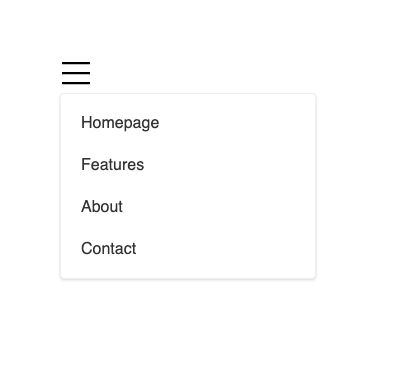
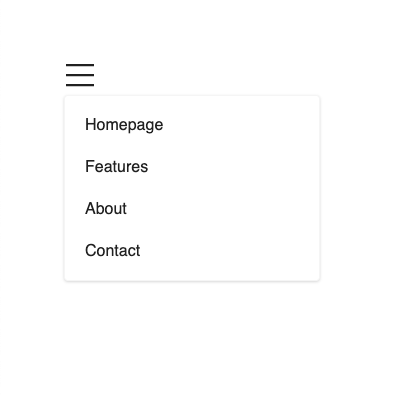
css variable definition is made

diff --git a/src/style.css b/src/style.css
@@ -1,3 +1,22 @@
+:root {
+  --white: #ffffff;
+  --gray-100: #f5f5f5;
+  --gray-200: #eeeeee;
+  --gray-900: #212121;
+  
+
+  --space-unit: 16px;
+  --space-4: calc(var(--space-unit) * 25 / 100);
+  --space-8: calc(var(--space-unit) * 50 / 100);
+  --space-12: calc(var(--space-unit) * 75 / 100);
+  --space-16: var(--space-unit);
+
+
+  --font-base: var(--space-unit);
+
+  --shadow-base: 0 1px 3px 0 rgba(0, 0, 0, 0.1), 0 1px 2px 0 rgba(0, 0, 0, 0.06);
+}
+
 *,
 *::before,
 *::after {
@@ -6,6 +25,8 @@
 
 body {
   font-family: sans-serif;
+  font-size: var(--font-base);
+  color: var(--gray-900);
 }
 
 a {
@@ -53,12 +74,12 @@ summary::-webkit-details-marker {
   position: absolute;
   left: 0;
   top: auto;
-  box-shadow: 0 1px 3px 0 rgba(0, 0, 0, 0.1), 0 1px 2px 0 rgba(0, 0, 0, 0.06);
-  width: 16rem;
-  background-color: #fff;
-  padding: 8px;
-  border: 1px solid #eee;
-  border-radius: 4px
+  box-shadow: var(--shadow-base);
+  width: calc(var(--space-unit) * 16 );
+  background-color: var(--white);
+  padding: var(--space-8);
+  border: 1px solid var(--gray-100);
+  border-radius: var(--space-4);
 }
 
 .menu .nav-item {
@@ -68,13 +89,12 @@ summary::-webkit-details-marker {
 .menu .nav-item .nav-link {
   width: 100%;
   display: inline-block;
-  padding: 12px;
-  font-size: 16px;
+  padding: var(--space-12);
   font-weight: 500;
-  color: #333;
-  border-radius: 4px;
+  color: var(--gray-900);
+  border-radius: var(--space-4);
 }
 
 .menu .nav-item .nav-link:hover {
-  background-color: #ddd
+  background-color: var(--gray-200);
 }
